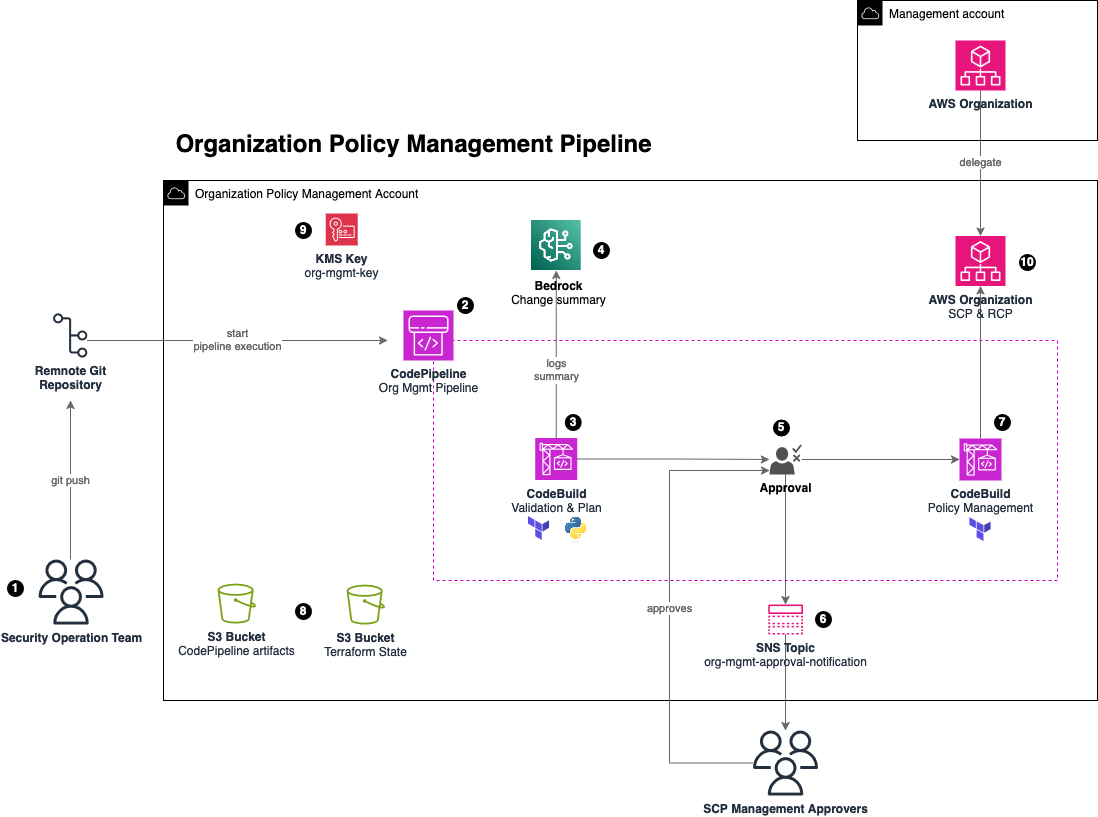
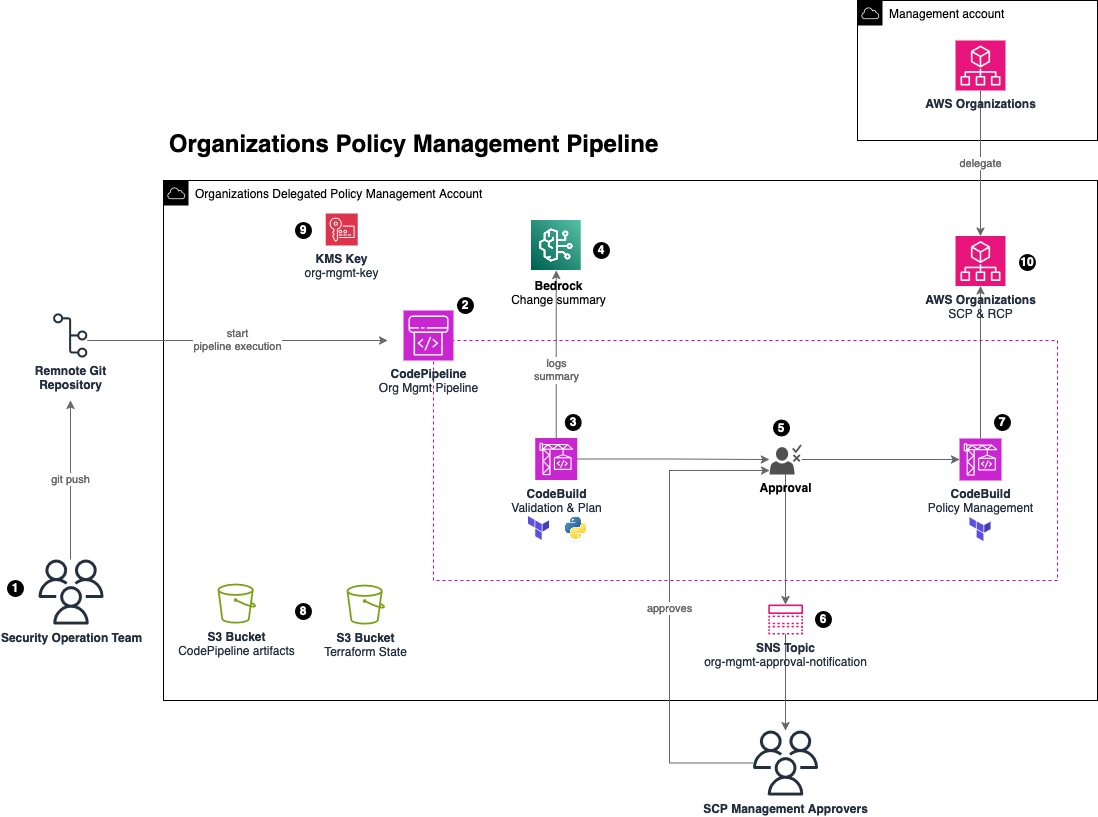
Fix README and image

diff --git a/README.md b/README.md
@@ -11,94 +11,12 @@ This pattern helps you to manage SCP and RCP as code abstracting the burden of h
     - An Environment (a group of OU and/or accounts defined in the environments.json file)
     - A tag: a group of account that shares the same key:value tag
 - A manual approval is required in the pipeline. This pattern uses Amazon Bedrock to read an summarize all pipeline logs in an executive summary to send to approvers so they don’t have to dig into the logs to understand and approve proposed changes
-
 To manage SCP and RCP as code, this solution deploys a continuous integration and continuous delivery (CI/CD) pipeline that uses AWS CodeBuild and AWS CodePipeline.
 
-## Prerequisites and limitations
-### Prerequisites
-- A multi-account environment managed as an organization in AWS Organizations. For more information, see Creating an organization.
-- AWS Resource Control Policies feature enabled in AWS Organization. For more information, see Enabling a policy type in the AWS Organizations documentation.
-- A repository in your source code host, such as GitHub.
-- A member account that is registered as the delegated administrator AWS Organizations – For instructions, see policy below. 
-- (Optional) The Amazon Bedrock Claude 3.5 Sonnet model enabled in your the AWS account you will use to deploy the pipeline. For more information, see Add or remove access to Amazon Bedrock foundation models.
-```
-{
-  "Version": "2012-10-17",
-  "Statement": [
-    {
-      "Sid": "DelegationToAudit",
-      "Effect": "Allow",
-      "Principal": {
-        "AWS": "arn:aws:iam::{{SCP_MGMT_ACCOUNT_ID}}:root"
-      },
-      "Action": [
-        "organizations:ListTargetsForPolicy",
-        "organizations:CreatePolicy",
-        "organizations:DeletePolicy",
-        "organizations:AttachPolicy",
-        "organizations:DetachPolicy",
-        "organizations:DisablePolicyType",
-        "organizations:EnablePolicyType",
-        "organizations:UpdatePolicy",
-        "organizations:DescribeEffectivePolicy",
-        "organizations:DescribePolicy",
-        "organizations:DescribeResourcePolicy"
-      ],
-      "Resource": "*"
-    }
-  ]
-}
-```
+The code in this repository helps you set up the following target architecture.
+
+![Architecture](images/org-mgmt-architecture.png)
 
 
-### Limitation
-- This pattern cannot be used to manage SCPs/RCPs created outside the pipeline. It will only manage policies created within the pipeline.
-- This pattern follows the Quotas and service limits for AWS Organizations
-- This pattern cannot be used to manage Management policies (i.e., backup policies, tag policies, chatbot policies, declarative policies).
-- This pattern was tested with Terraform version 1.9.8.
+For prerequisites and instructions for using this AWS Prescriptive Guidance pattern, see Manage AWS Organizations Service Control Policies (SCP) and Resource Control Policies (RCP) as code by using AWS CodePipeline powered by Amazon Bedrock.
 
-
-## Architecture
-### Stack de tecnologia
-* AWS CodeBuild
-* AWS CodeCommit
-* AWS CodePipeline
-* Amazon EventBridge
-* AWS Organizations
-* AWS Key Management Service
-* Amazon Bedrock
-
-### Target architecture 
-![Arquitetura](images/org-mgmt-architecture.png)
-
-1. A user commits changes to the remote repository, such as GitHub
-2. If the user committed a change to the remote repository to the main branch, the pipeline starts.
-3. CodePipeline starts the ValidationPlan CodeBuild project. The ValidationPlan CodeBuild project uses a Python script in the remote repository to validate policies and SCP/RCP manifest files. CodeBuild do the following:
-* Check if scp-management.json and rcp-management.json manifest files have unique statement IDs (Sid) in its JSON files.
-* The ValidationPlan CodeBuild project uses Python scripts (scp-policy-processor/main.py and rcp-policy-processor/main.py) to concatenate guardrails in the guardrails/ folder in a single RCP/SCP policy. It will optimize its size by combining guardrails with same Resource, Action and Condition. CodeBuild uses IAM Access Analyzer validate-policy in the final optimized policy and it will break the pipeline unless all findings are fixed.
-* Create a scps.json and rcps.json files with information for Terraform to import and create resources.
-* Plan the changes using the command terraform plan
-* The ValidationPlan CodeBuild project uses another python script (bedrock-prompt/prompt.py) to create a prompt to Amazon Bedrock (defined in the bedrock-prompt/prompt.txt) so it can create a summary of the Terraform proposed changes
-4. Amazon Bedrock will use Claude 3.5 Sonnet model to summarize all Terraform and Python logs so approvers don’t have to dig into the logs to understand the changes.
-5. The summary created by Amazon Bedrock will be displayed in the Manual Approval stage. Changes will only be applied after manual approval.
-6. Changes are also emailed by SNS Topic
-7. CodePipeline starts the Apply CodeBuild project. The Apply CodeBuild Project uses Terraform to apply the changes in AWS Organization.
-8. Terraform state file is stored in a S3 Bucket. CodePipeline artifacts and scripts (such as scp-policy-processor/main.py and bedrock-prompt/prompt.py) are stored in another S3 bucket and downloaded during pipeline execution.
-9. A KMS key is created to encrypt all resources from this pattern.
-10. AWS Organization is delegated from AWS Management Account so the Organization Policy Management Account can manage SCP/RCP policies (see Prerequisites above)
-
-## Tools
-* AWS CodeBuild is a fully managed build service that helps you compile source code, run unit tests, and produce artifacts that are ready to deploy. 
-* AWS CodePipeline helps you quickly model and configure the different stages of a software release and automate the steps required to release software changes continuously.
-* Amazon EventBridge is a serverless event bus service that helps you connect your applications with real-time data from a variety of sources. For example, AWS Lambda functions, HTTP invocation endpoints using API destinations, or event buses in other AWS accounts.
-* AWS Organizations is an account management service that helps you consolidate multiple AWS accounts into an organization that you create and centrally manage.
-* AWS SDK for Python (Boto3) is a software development kit that helps you integrate your Python application, library, or script with AWS services.
-Amazon Simple Storage Service (Amazon S3) is a cloud-based object storage service that helps you store, protect, and retrieve any amount of data.
-
-## Security
-
-See [CONTRIBUTING](CONTRIBUTING.md#security-issue-notifications) for more information.
-
-## License
-
-This library is licensed under the MIT-0 License. See the LICENSE file.
